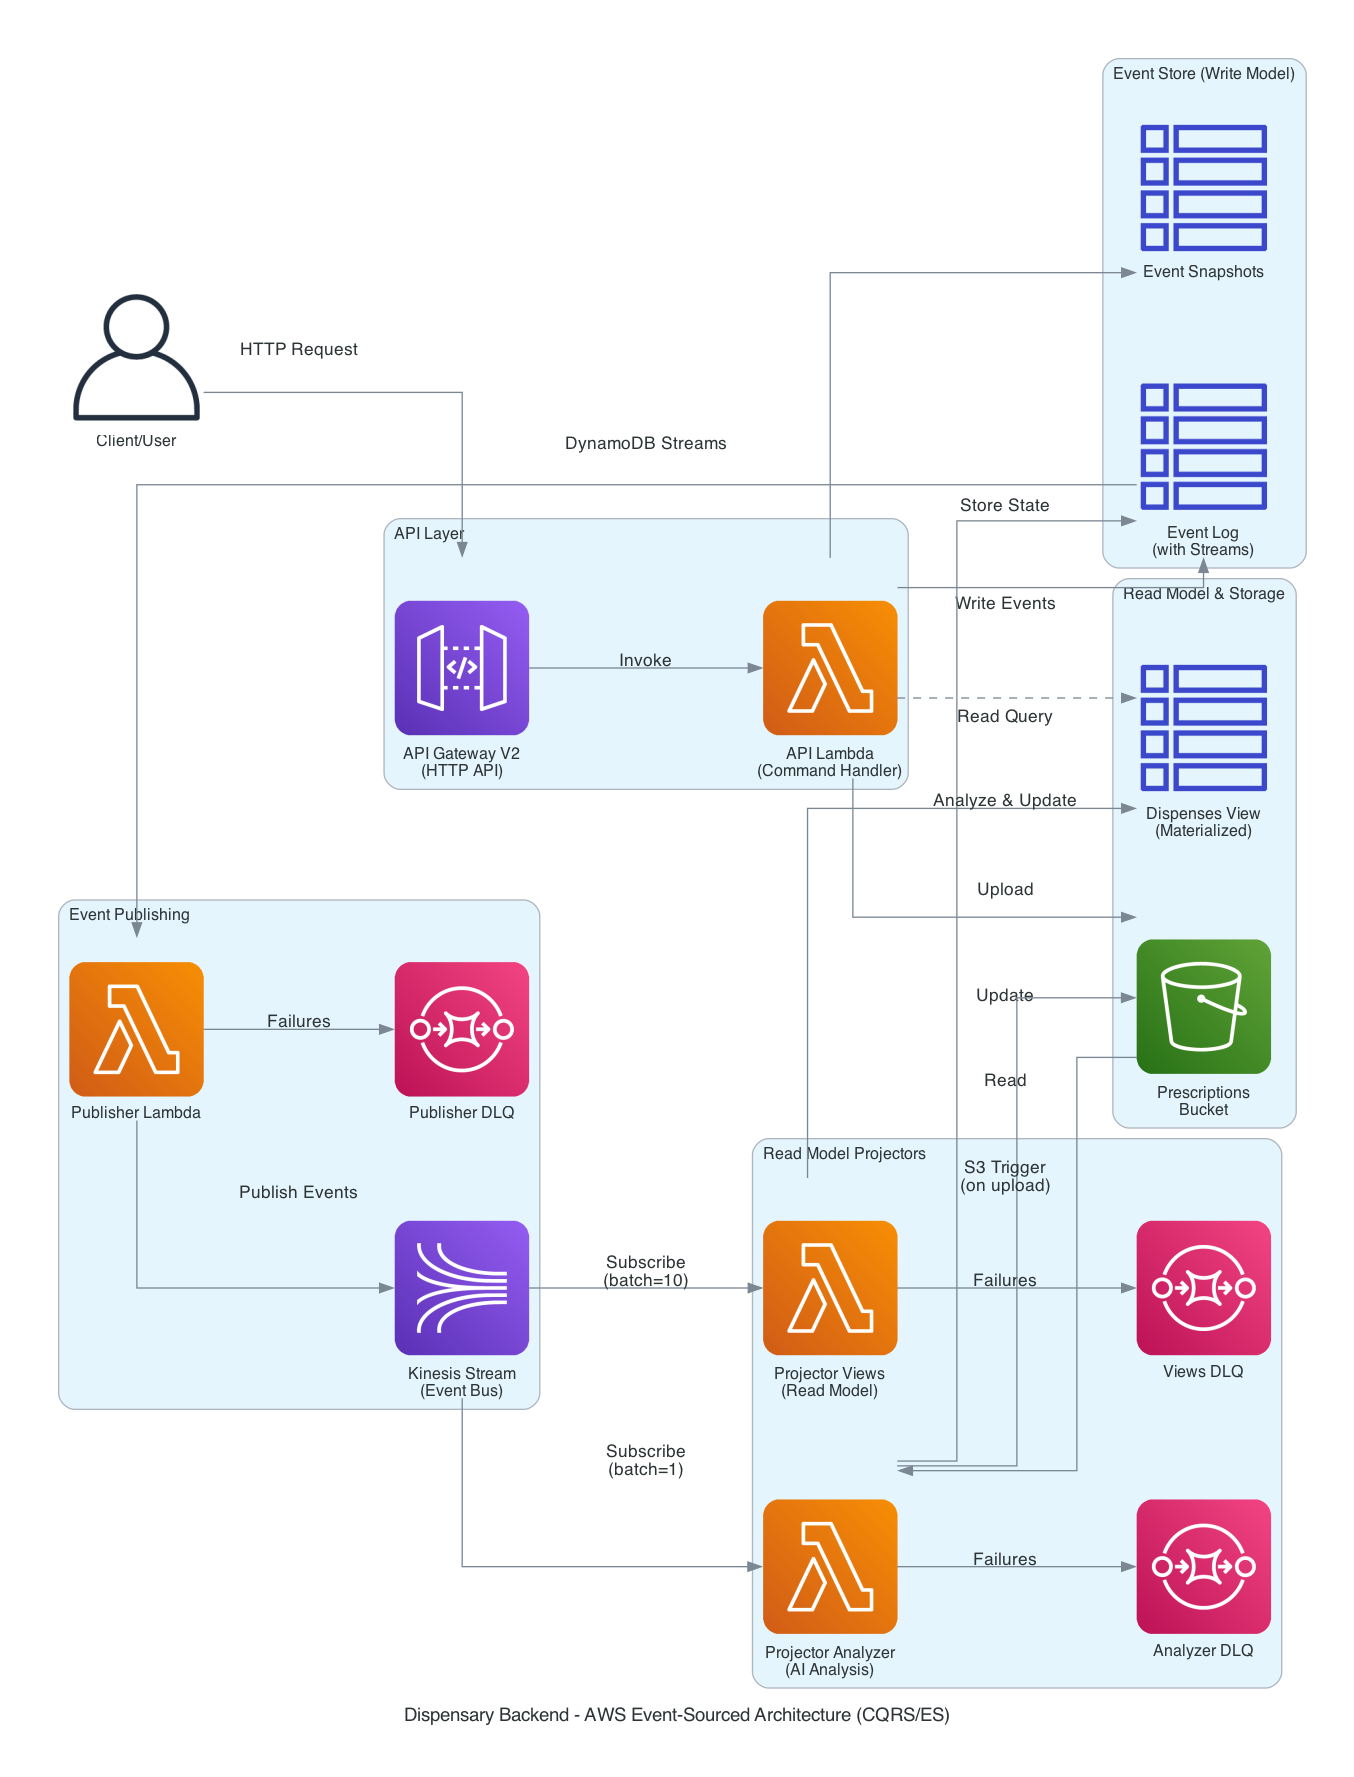
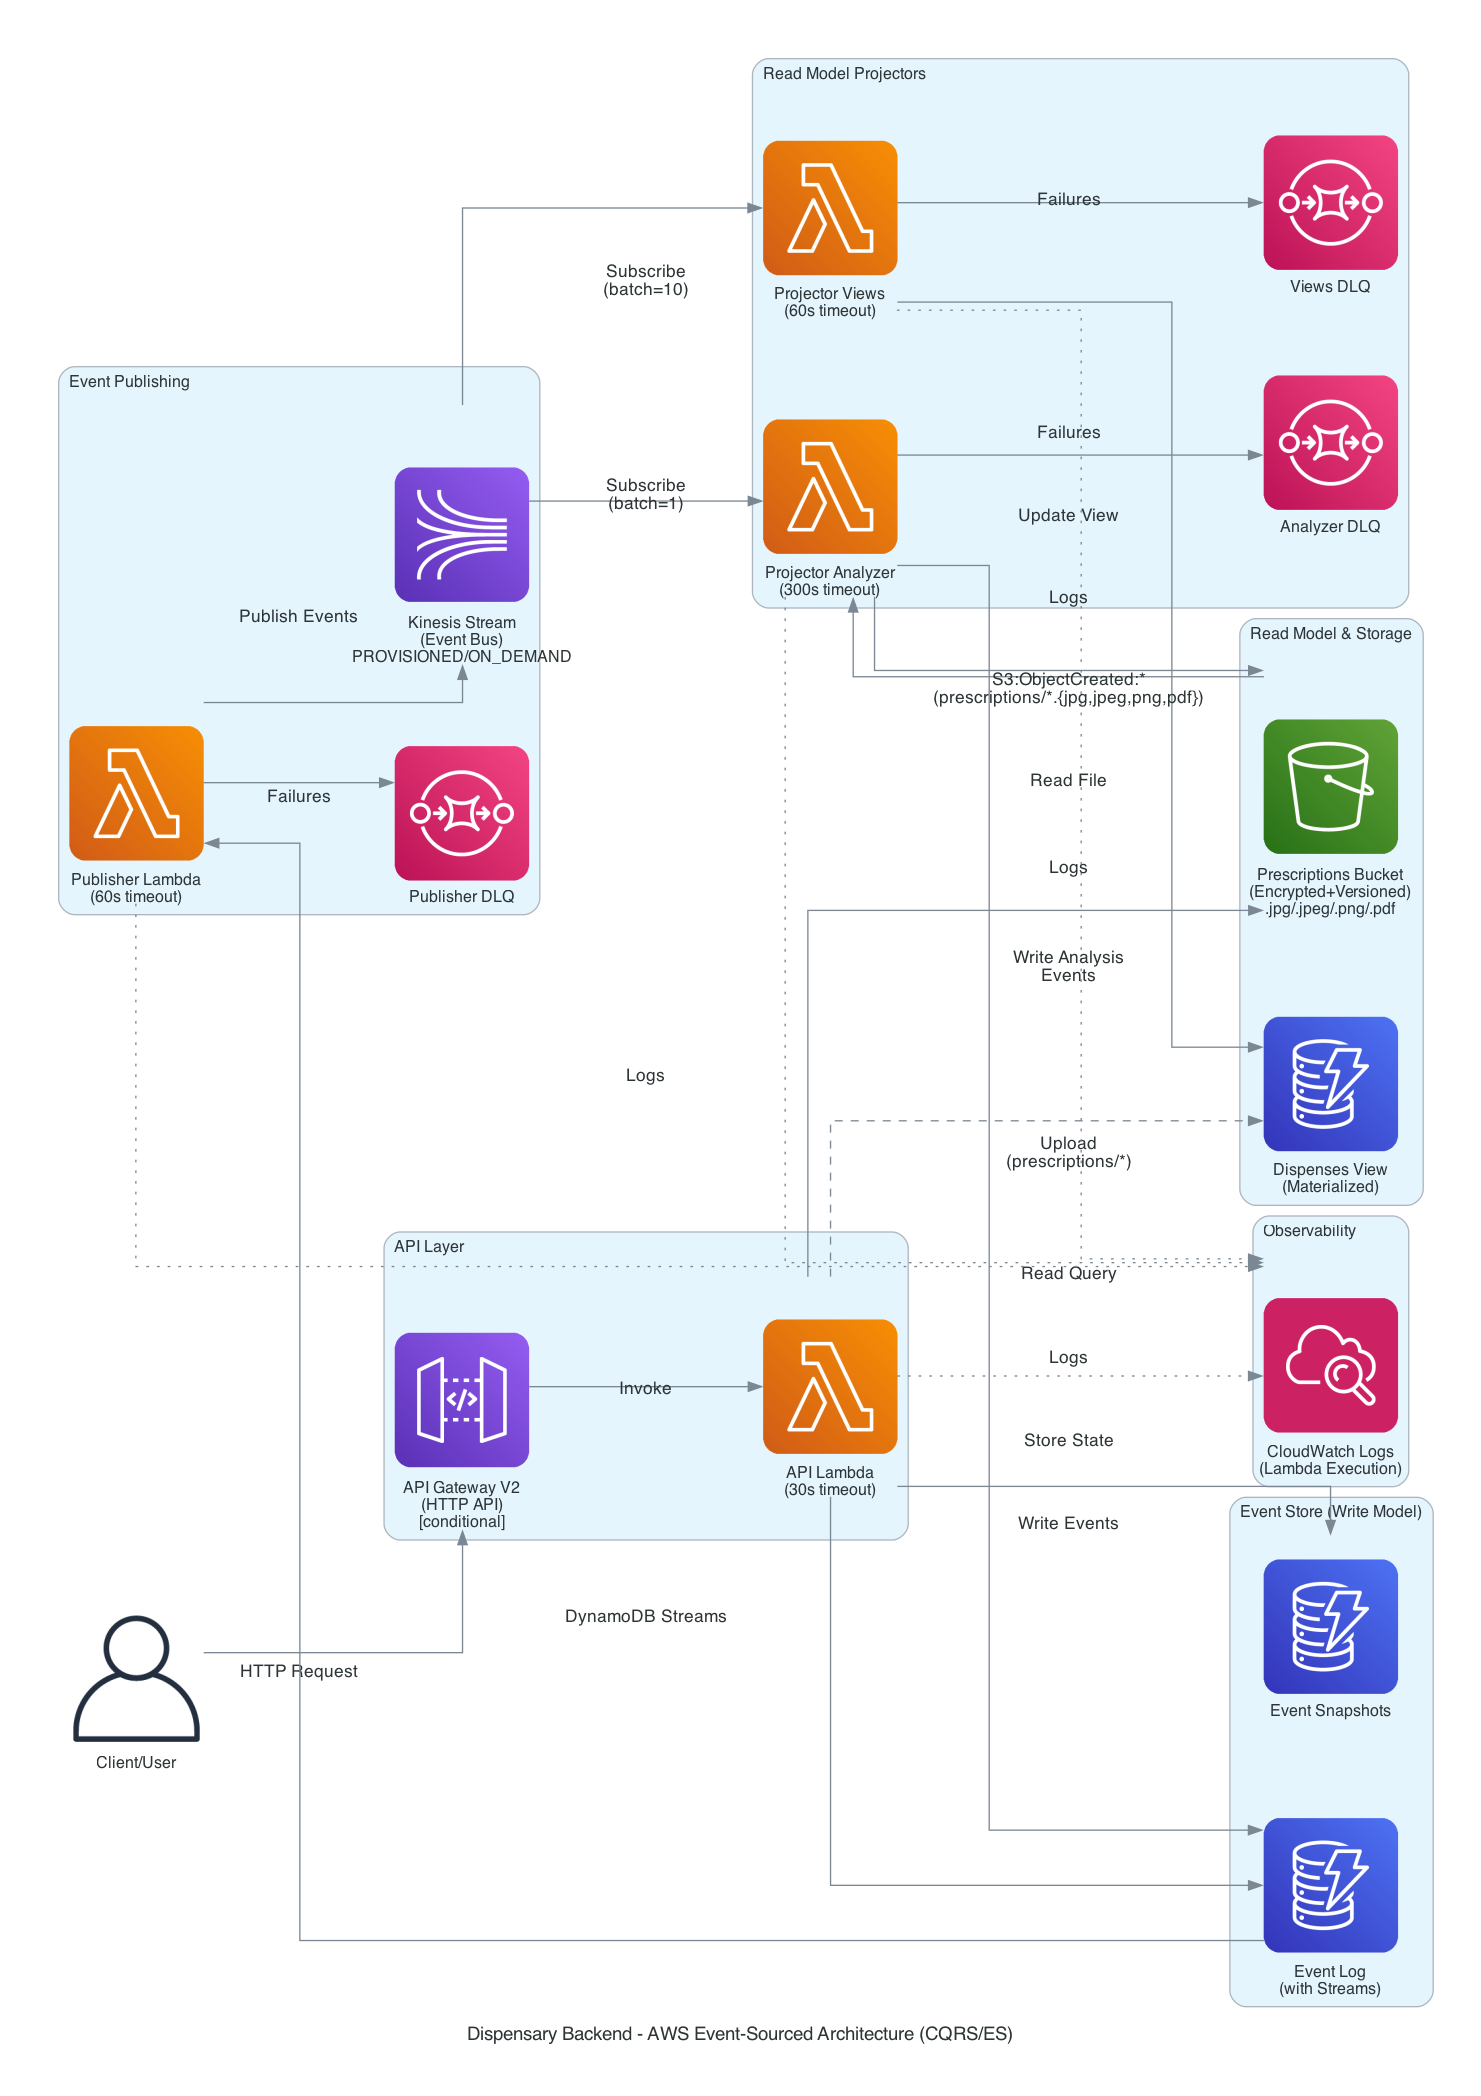
Edit diags

diff --git a/docs/architecture/generate_diagram.py b/docs/architecture/generate_diagram.py
@@ -31,29 +31,37 @@ Architecture Overview:
     This project implements Event Sourcing with CQRS pattern on AWS:
 
     Write Side (Commands):
-    - API Gateway V2 → API Lambda → DynamoDB Event Log
+    - API Gateway V2 → API Lambda (30s) → DynamoDB Event Log
 
     Event Publishing:
-    - DynamoDB Streams → Publisher Lambda → Kinesis Stream
+    - DynamoDB Streams → Publisher Lambda (60s) → Kinesis Stream
 
     Read Side (Queries):
-    - Kinesis → Projector Lambdas → Read Models (DynamoDB Views)
-    - S3 Events → Analyzer Lambda → AI Processing
+    - Kinesis → Projector Views (60s) → Read Models (DynamoDB Views)
+    - Kinesis + S3 Events → Projector Analyzer (300s) → AI Processing
 
     Key AWS Services:
-    - 1x API Gateway V2 (HTTP API)
-    - 4x Lambda Functions (API, Publisher, 2 Projectors)
-    - 3x DynamoDB Tables (Event Log with Streams, Snapshots, Views)
-    - 1x Kinesis Data Stream (Event distribution)
-    - 1x S3 Bucket (Encrypted prescription storage)
-    - 3x SQS Queues (Dead letter queues for error handling)"""
+    - 1x API Gateway V2 (HTTP API, conditional deployment)
+    - 4x Lambda Functions (API, Publisher, Projector Views, Projector Analyzer)
+    - 3x DynamoDB Tables (Event Log with Streams, Snapshots, Dispenses View)
+    - 1x Kinesis Data Stream (PROVISIONED/ON_DEMAND based on environment)
+    - 1x S3 Bucket (Encrypted, versioned, multi-format support)
+    - 3x SQS Queues (Dead letter queues for error handling)
+
+    Lambda Timeouts:
+    - API Lambda: 30s
+    - Publisher: 60s
+    - Projector Views: 60s
+    - Projector Analyzer: 300s (5 minutes for AI processing)
+"""
 
 from diagrams import Cluster, Diagram, Edge
 from diagrams.aws.analytics import Kinesis
 from diagrams.aws.compute import Lambda
-from diagrams.aws.database import DynamodbTable
+from diagrams.aws.database import Dynamodb
 from diagrams.aws.general import User
 from diagrams.aws.integration import SQS
+from diagrams.aws.management import Cloudwatch
 from diagrams.aws.network import APIGateway
 from diagrams.aws.security import IAM
 from diagrams.aws.storage import S3
@@ -87,27 +95,32 @@ with Diagram(
     user = User("Client/User")
 
     with Cluster("API Layer"):
-        api_gateway = APIGateway("API Gateway V2\n(HTTP API)")
-        api_lambda = Lambda("API Lambda\n(Command Handler)")
+        api_gateway = APIGateway("API Gateway V2\n(HTTP API)\n[conditional]")
+        api_lambda = Lambda("API Lambda\n(30s timeout)")
 
     with Cluster("Event Store (Write Model)"):
-        event_log = DynamodbTable("Event Log\n(with Streams)")
-        event_snapshots = DynamodbTable("Event Snapshots")
+        event_log = Dynamodb("Event Log\n(with Streams)")
+        event_snapshots = Dynamodb("Event Snapshots")
 
     with Cluster("Event Publishing"):
-        publisher_lambda = Lambda("Publisher Lambda")
-        kinesis = Kinesis("Kinesis Stream\n(Event Bus)")
+        publisher_lambda = Lambda("Publisher Lambda\n(60s timeout)")
+        kinesis = Kinesis("Kinesis Stream\n(Event Bus)\nPROVISIONED/ON_DEMAND")
         publisher_dlq = SQS("Publisher DLQ")
 
     with Cluster("Read Model Projectors"):
-        projector_views = Lambda("Projector Views\n(Read Model)")
-        projector_analyzer = Lambda("Projector Analyzer\n(AI Analysis)")
+        projector_views = Lambda("Projector Views\n(60s timeout)")
+        projector_analyzer = Lambda("Projector Analyzer\n(300s timeout)")
         views_dlq = SQS("Views DLQ")
         analyzer_dlq = SQS("Analyzer DLQ")
 
     with Cluster("Read Model & Storage"):
-        dispenses_view = DynamodbTable("Dispenses View\n(Materialized)")
-        prescriptions_s3 = S3("Prescriptions\nBucket")
+        dispenses_view = Dynamodb("Dispenses View\n(Materialized)")
+        prescriptions_s3 = S3(
+            "Prescriptions Bucket\n(Encrypted+Versioned)\n.jpg/.jpeg/.png/.pdf"
+        )
+
+    with Cluster("Observability"):
+        cloudwatch = Cloudwatch("CloudWatch Logs\n(Lambda Execution)")
 
     # Main flow
     user >> Edge(label="HTTP Request") >> api_gateway
@@ -124,19 +137,29 @@ with Diagram(
     kinesis >> Edge(label="Subscribe\n(batch=10)") >> projector_views
     kinesis >> Edge(label="Subscribe\n(batch=1)") >> projector_analyzer
 
-    projector_views >> Edge(label="Update") >> dispenses_view
+    projector_views >> Edge(label="Update View") >> dispenses_view
     projector_views >> Edge(label="Failures") >> views_dlq
 
-    projector_analyzer >> Edge(label="Analyze & Update") >> event_log
+    projector_analyzer >> Edge(label="Write Analysis\nEvents") >> event_log
     projector_analyzer >> Edge(label="Failures") >> analyzer_dlq
 
     # S3 interactions
-    api_lambda >> Edge(label="Upload") >> prescriptions_s3
-    prescriptions_s3 >> Edge(label="S3 Trigger\n(on upload)") >> projector_analyzer
-    projector_analyzer >> Edge(label="Read") >> prescriptions_s3
+    api_lambda >> Edge(label="Upload\n(prescriptions/*)") >> prescriptions_s3
+    (
+        prescriptions_s3
+        >> Edge(label="S3:ObjectCreated:*\n(prescriptions/*.{jpg,jpeg,png,pdf})")
+        >> projector_analyzer
+    )
+    projector_analyzer >> Edge(label="Read File") >> prescriptions_s3
 
     # Read flow
     api_lambda >> Edge(label="Read Query", style="dashed") >> dispenses_view
+
+    # Logging
+    api_lambda >> Edge(label="Logs", style="dotted") >> cloudwatch
+    publisher_lambda >> Edge(label="Logs", style="dotted") >> cloudwatch
+    projector_views >> Edge(label="Logs", style="dotted") >> cloudwatch
+    projector_analyzer >> Edge(label="Logs", style="dotted") >> cloudwatch
 
 print("✅ Generated: aws_architecture.png")
 
@@ -152,55 +175,76 @@ with Diagram(
 ):
     user = User("Client")
 
-    with Cluster("Security"):
-        iam_role = IAM("Lambda\nExecution Role")
+    with Cluster("Security & IAM"):
+        iam_role = IAM("Lambda Exec Role\n(DynamoDB+Kinesis\n+S3+SQS)")
 
     with Cluster("Command Side (Write)"):
-        api_gateway = APIGateway("API Gateway")
-        api_lambda = Lambda("API Lambda")
+        api_gateway = APIGateway("API Gateway V2\n[conditional]")
+        api_lambda = Lambda("API Lambda\n(30s)")
 
         with Cluster("Event Store"):
-            event_log = DynamodbTable("Event Log")
-            event_snapshots = DynamodbTable("Snapshots")
+            event_log = Dynamodb("Event Log\n(Streams Enabled)")
+            event_snapshots = Dynamodb("Event Snapshots")
 
     with Cluster("Event Distribution"):
-        publisher_lambda = Lambda("Publisher")
-        kinesis = Kinesis("Event Stream")
+        publisher_lambda = Lambda("Publisher\n(60s)")
+        kinesis = Kinesis("Event Stream\nPROVISIONED/\nON_DEMAND")
 
         with Cluster("DLQs"):
             pub_dlq = SQS("Publisher DLQ")
 
     with Cluster("Query Side (Read)"):
         with Cluster("Projectors"):
-            proj_views = Lambda("Views Projector")
-            proj_analyzer = Lambda("Analyzer Projector")
+            proj_views = Lambda("Views Projector\n(60s)")
+            proj_analyzer = Lambda("Analyzer Projector\n(300s)")
             views_dlq = SQS("Views DLQ")
             analyzer_dlq = SQS("Analyzer DLQ")
 
         with Cluster("Read Models"):
-            dispenses_view = DynamodbTable("Dispenses View")
-            prescriptions = S3("Prescriptions")
+            dispenses_view = Dynamodb("Dispenses View")
+            prescriptions = S3("Prescriptions\n(Versioned+Encrypted)")
+
+    with Cluster("Observability"):
+        cloudwatch = Cloudwatch("CloudWatch Logs")
 
     # Flows
     user >> api_gateway >> api_lambda
-    api_lambda >> iam_role
+    api_lambda >> Edge(label="AssumeRole", style="dashed") >> iam_role
     api_lambda >> event_log
     api_lambda >> event_snapshots
-    api_lambda >> prescriptions
+    api_lambda >> Edge(label="Upload") >> prescriptions
 
-    event_log >> Edge(label="Stream") >> publisher_lambda >> kinesis
+    event_log >> Edge(label="Stream\n(NEW_IMAGE)") >> publisher_lambda >> kinesis
     publisher_lambda >> pub_dlq
 
-    kinesis >> proj_views >> dispenses_view
-    kinesis >> proj_analyzer >> event_log
+    kinesis >> Edge(label="batch=10") >> proj_views >> dispenses_view
+    (
+        kinesis
+        >> Edge(label="batch=1")
+        >> proj_analyzer
+        >> Edge(label="Append Event")
+        >> event_log
+    )
 
-    proj_views >> views_dlq
-    proj_analyzer >> analyzer_dlq
+    proj_views >> Edge(label="On Failure") >> views_dlq
+    proj_analyzer >> Edge(label="On Failure") >> analyzer_dlq
 
-    prescriptions >> Edge(label="Trigger") >> proj_analyzer
-    proj_analyzer >> prescriptions
+    (
+        prescriptions
+        >> Edge(
+            label="S3:ObjectCreated\nprefix: prescriptions/\nsuffix: .jpg/.jpeg/.png/.pdf"
+        )
+        >> proj_analyzer
+    )
+    proj_analyzer >> Edge(label="Read") >> prescriptions
 
     api_lambda >> Edge(label="Query", style="dashed") >> dispenses_view
+
+    # All lambdas log to CloudWatch
+    api_lambda >> Edge(label="Logs", style="dotted") >> cloudwatch
+    publisher_lambda >> Edge(label="Logs", style="dotted") >> cloudwatch
+    proj_views >> Edge(label="Logs", style="dotted") >> cloudwatch
+    proj_analyzer >> Edge(label="Logs", style="dotted") >> cloudwatch
 
 print("✅ Generated: aws_architecture_detailed.png")
 
@@ -216,40 +260,131 @@ with Diagram(
 ):
     with Cluster("1. Command"):
         user = User("User")
-        api = APIGateway("API")
-        cmd_lambda = Lambda("API Lambda")
+        api = APIGateway("API GW\n[conditional]")
+        cmd_lambda = Lambda("API Lambda\n(30s)")
 
     with Cluster("2. Event Store"):
-        events = DynamodbTable("Event Log")
+        event_log = Dynamodb("Event Log\n(Streams)")
 
     with Cluster("3. Publishing"):
-        publisher = Lambda("Publisher")
+        publisher = Lambda("Publisher\n(60s)")
         stream = Kinesis("Stream")
 
     with Cluster("4. Projections"):
-        projector1 = Lambda("Views")
-        projector2 = Lambda("Analyzer")
+        projector1 = Lambda("Views\n(60s)")
+        projector2 = Lambda("Analyzer\n(300s)")
 
     with Cluster("5. Read Models"):
-        view = DynamodbTable("View")
-        s3 = S3("S3")
+        view_table = Dynamodb("View")
+        s3 = S3("S3\n(Multi-format)")
 
     user >> Edge(label="1. POST /dispenses") >> api
     api >> Edge(label="2. Invoke") >> cmd_lambda
-    cmd_lambda >> Edge(label="3. Dispense:Started") >> events
-    events >> Edge(label="4. Stream") >> publisher
+    cmd_lambda >> Edge(label="3. Dispense:Started") >> event_log
+    event_log >> Edge(label="4. Stream") >> publisher
     publisher >> Edge(label="5. Publish") >> stream
-    stream >> Edge(label="6. Consume") >> projector1
-    stream >> Edge(label="6. Consume") >> projector2
-    projector1 >> Edge(label="7. Update") >> view
-    projector2 >> Edge(label="7. Upload") >> s3
+    stream >> Edge(label="6a. Consume") >> projector1
+    stream >> Edge(label="6b. Consume") >> projector2
+    projector1 >> Edge(label="7a. Update") >> view_table
+    (
+        projector2
+        >> Edge(label="7b. Process & Write\nDispense:PrescriptionAnalyzed")
+        >> event_log
+    )
+    cmd_lambda >> Edge(label="8. Upload") >> s3
+    s3 >> Edge(label="9. Trigger") >> projector2
 
 print("✅ Generated: aws_event_flow.png")
+
+# Simple User Flow Diagram
+with Diagram(
+    "Dispensary Backend - User Flow (Create → Upload → Edit → Close)",
+    filename="user_flow",
+    direction="LR",
+    graph_attr=graph_attr,
+    node_attr=node_attr,
+    edge_attr=edge_attr,
+    show=False,
+):
+    user = User("Pharmacist")
+
+    with Cluster("1. Create Dispense"):
+        create_api = APIGateway("POST /dispenses")
+        create_lambda = Lambda("API Lambda")
+        create_db = Dynamodb("Event Log")
+
+    with Cluster("2. Upload Prescription"):
+        upload_api = APIGateway("POST /dispenses/{id}/prescription")
+        upload_lambda = Lambda("API Lambda")
+        upload_s3 = S3("S3 Upload")
+        upload_db = Dynamodb("Event Log")
+
+    with Cluster("3. AI Analysis (Auto)"):
+        analyzer = Lambda("Analyzer\n(Triggered by S3)")
+        analysis_db = Dynamodb("Event Log")
+
+    with Cluster("4. Edit Dispense"):
+        edit_api = APIGateway(
+            "POST /dispenses/{id}/patient\nPOST /dispenses/{id}/drugs"
+        )
+        edit_lambda = Lambda("API Lambda")
+        edit_db = Dynamodb("Event Log")
+
+    with Cluster("5. Close Dispense"):
+        close_api = APIGateway("POST /dispenses/{id}/complete")
+        close_lambda = Lambda("API Lambda")
+        close_db = Dynamodb("Event Log")
+
+    # Flow 1: Create
+    user >> Edge(label="1. Create\nDispense") >> create_api
+    create_api >> create_lambda
+    create_lambda >> Edge(label="Dispense:Started") >> create_db
+
+    # Flow 2: Upload
+    user >> Edge(label="2. Upload\nPrescription") >> upload_api
+    upload_api >> upload_lambda >> upload_s3
+    upload_lambda >> Edge(label="Prescription:Uploaded") >> upload_db
+
+    # Flow 3: Auto Analysis
+    upload_s3 >> Edge(label="3. S3 Trigger\n(Auto)") >> analyzer
+    analyzer >> Edge(label="Prescription:Analyzed") >> analysis_db
+
+    # Flow 4: Edit
+    user >> Edge(label="4. Add Patient\n& Drugs") >> edit_api
+    edit_api >> edit_lambda
+    edit_lambda >> Edge(label="Patient:Added\nDrugs:Added") >> edit_db
+
+    # Flow 5: Close
+    user >> Edge(label="5. Complete\nDispense") >> close_api
+    close_api >> close_lambda
+    close_lambda >> Edge(label="Dispense:Completed") >> close_db
+
+print("✅ Generated: user_flow.png")
 
 print("\n📊 Diagrams generated successfully!")
 print("\nFiles created:")
 print("  - aws_architecture.png (Main architecture)")
 print("  - aws_architecture_detailed.png (Detailed with IAM)")
 print("  - aws_event_flow.png (Event flow sequence)")
-print("\n📝 To install dependencies:")
+print("  - user_flow.png (User workflow: Create → Upload → Edit → Close)")
+print("\n📝 Infrastructure Details:")
+print("  Lambda Timeouts:")
+print("    - API Lambda: 30s")
+print("    - Publisher: 60s")
+print("    - Projector Views: 60s")
+print("    - Projector Analyzer: 300s (AI processing)")
+print("\n  S3 Configuration:")
+print("    - Versioning: Enabled")
+print("    - Encryption: AES256")
+print("    - Supported formats: .jpg, .jpeg, .png, .pdf")
+print("    - Event filter: prescriptions/* prefix")
+print("\n  Kinesis Stream:")
+print("    - Mode: PROVISIONED (dev/local) / ON_DEMAND (prod)")
+print("    - Retention: 24h (dev/local) / 48h (prod)")
+print("    - Shards: 1 (dev/local) / auto-scaled (prod)")
+print("\n  API Gateway:")
+print("    - Type: HTTP API (v2)")
+print("    - Deployment: Conditional (disabled for LocalStack free tier)")
+print("\n📦 To install dependencies:")
+print("  brew install graphviz")
 print("  pip install diagrams")
